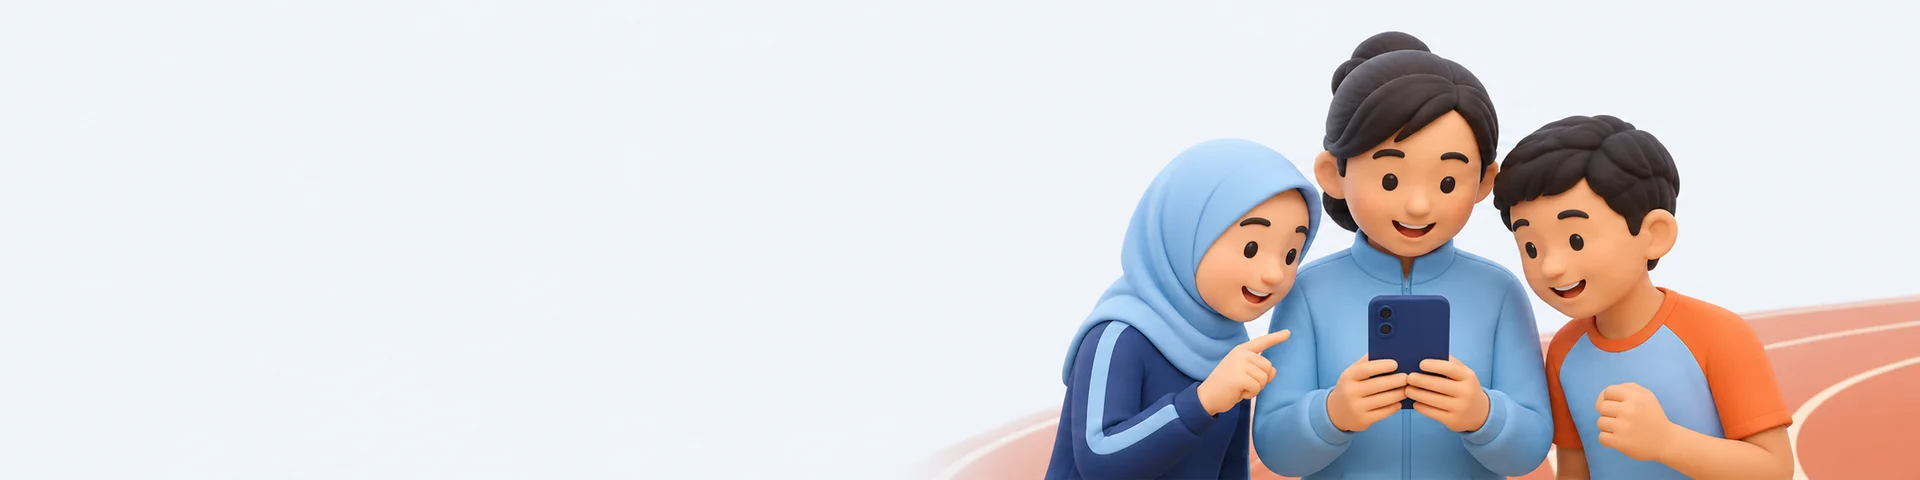
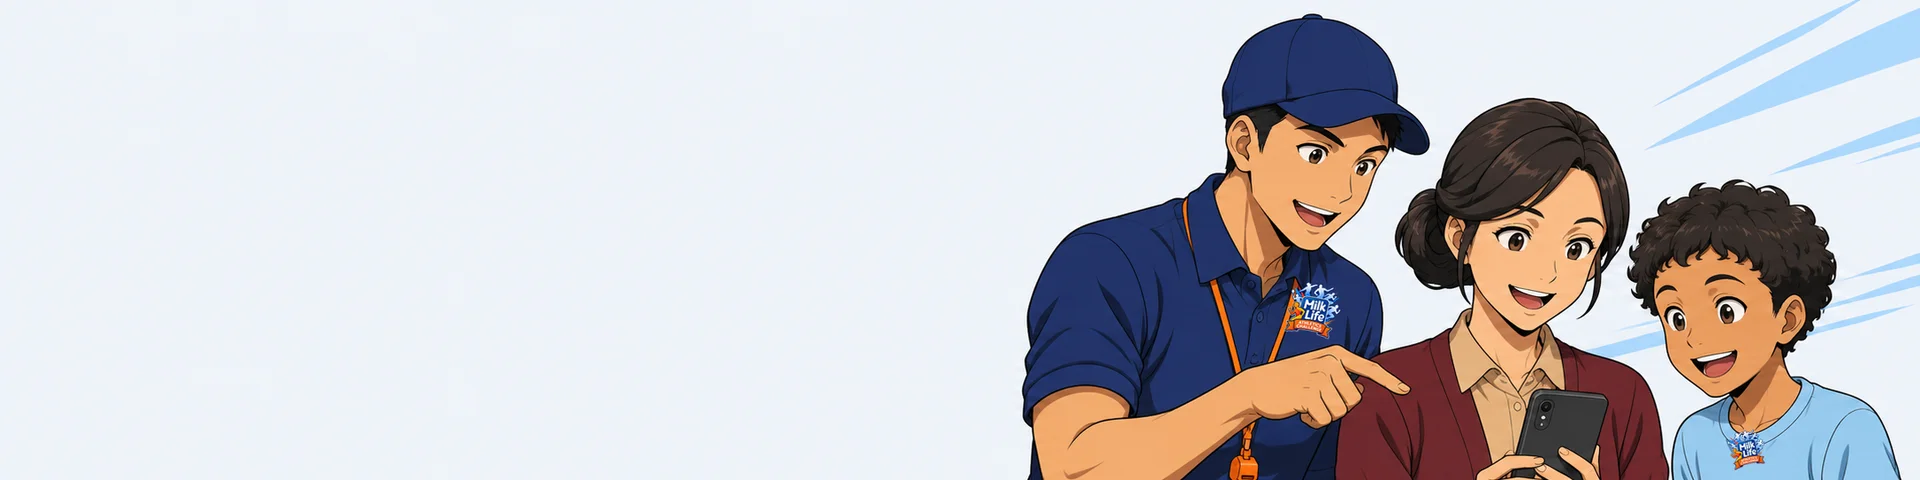
desain(G10-07): Ikon kategori dan ilustrasi kepala Bantuan

diff --git a/desain/catatan/G10-07.md b/desain/catatan/G10-07.md
@@ -1,0 +1,29 @@
+# G10-07 Kategori Bantuan
+
+| Berkas | Ukuran | Format | KB |
+|---|---|---|---:|
+| `sebelum-mendaftar.webp` | 480 × 480 | WebP alfa | 35,01 |
+| `mengisi-pendaftaran.webp` | 480 × 480 | WebP alfa | 46,09 |
+| `pembayaran.webp` | 480 × 480 | WebP alfa | 29,48 |
+| `cek-bukti.webp` | 480 × 480 | WebP alfa | 30,88 |
+| `hari-lomba.webp` | 480 × 480 | WebP alfa | 36,11 |
+| `hasil-juara.webp` | 480 × 480 | WebP alfa | 49,33 |
+| `tanya-panitia.webp` | 480 × 480 | WebP alfa | 34,89 |
+| `kepala-bantuan.webp` | 1920 × 480 | WebP | 57,61 |
+
+Prompt dasar dan tambahan tetap berikut dipakai bersama adegan di tabel. Garis tinta, bayangan keras, dan palet mengacu pada rujukan lintasan.
+
+> 2D cel-shaded sports anime illustration, school-age track athletes, dynamic sprint poses, bold linework, crisp shadow shapes, low-angle track composition, brand-colored jerseys. Clean background, no text, no letters, no numbers, no logos, no watermark, modest sportswear, Indonesian school kids, original characters.
+
+| Berkas | Ringkasan arahan gambar |
+|---|---|
+| `sebelum-mendaftar.webp` | Papan klip biru, tiga kotak centang kosong, dan pensil oranye. |
+| `mengisi-pendaftaran.webp` | Jari menyentuh area formulir abstrak di ponsel biru. |
+| `pembayaran.webp` | Kartu bank polos dengan cip dan struk krem bertanda garis sederhana. |
+| `cek-bukti.webp` | Dokumen dengan kaca pembesar dan centang hijau. |
+| `hari-lomba.webp` | Nomor dada tanpa angka dengan peniti dan stopwatch berjarum. |
+| `hasil-juara.webp` | Medali berpita biru dan piala kecil berwarna emas. |
+| `tanya-panitia.webp` | Gelembung percakapan hijau kosong dan ponsel biru. |
+| `kepala-bantuan.webp` | E menunjuk layar ponsel sambil menjelaskan kepada guru dan D di kanan, dengan ruang judul di kiri. |
+
+Logo resmi dari `sumber/logo/logo-milklife-athletics-challenge.webp` ditempel dengan Pillow sesudah ilustrasi selesai. Alfa asli dipertahankan, warna tidak diubah, dan lebar sasaran sekitar 18–22% dari dada yang terlihat. Sudut stempel disesuaikan dengan arah bahu. Logo ditempel pada kaus E dan D di ilustrasi kepala. Ketujuh ikon diperiksa pada 64 × 64 piksel.
